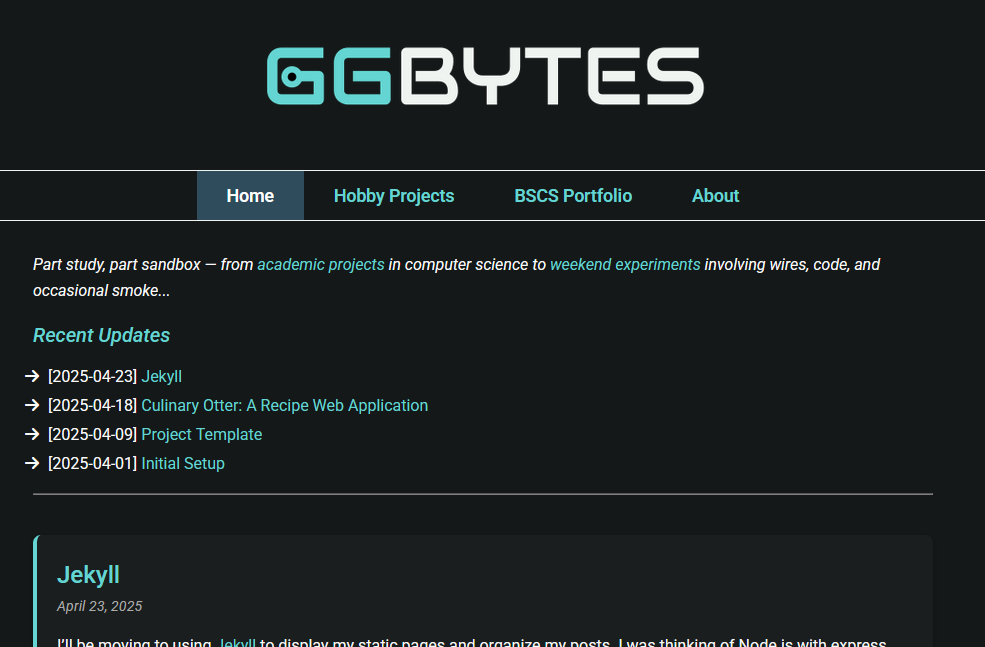
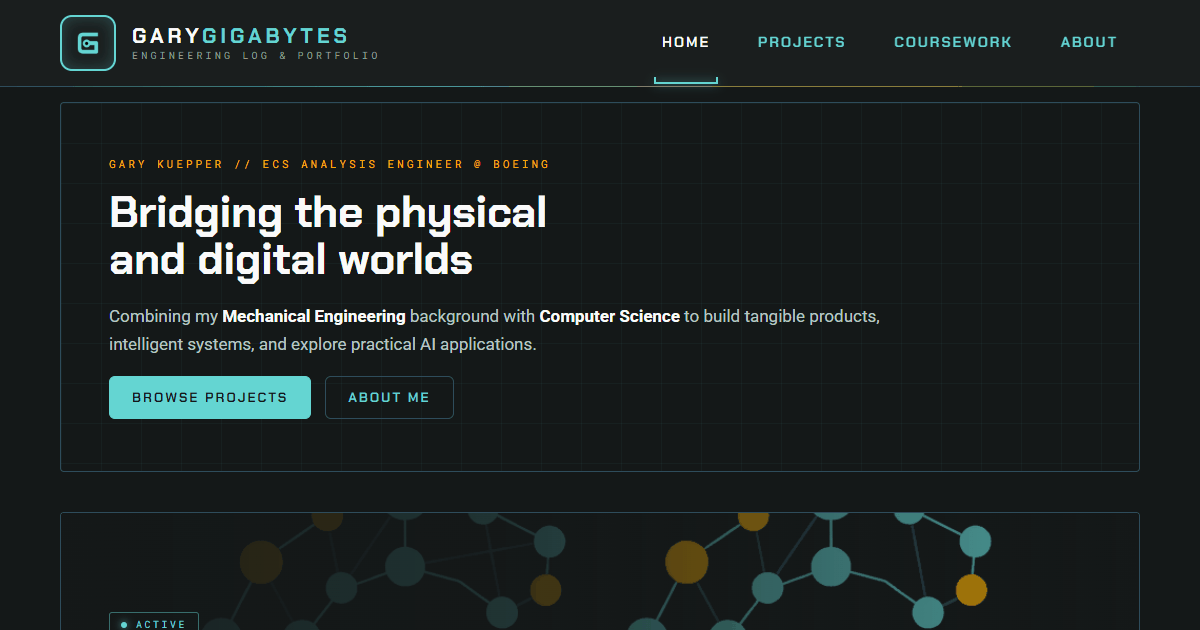
content: refresh site screenshots, keep the old ones as design history
The og:image and the project card both still showed the pre-redesign site. The
social preview was two generations stale - its nav read "Hobby Projects" and
"BSCS Portfolio", labels that have since been renamed twice - so sharing the
portfolio anywhere rendered a site that no longer exists.

Both are recaptured from production: a 1200x630 preview at the standard 1.91:1
social ratio, and a 1200x900 card matching .card-media's 4/3 aspect so it is
not letterboxed. Palette-quantised, 38KB and 77KB.

The old screenshots are kept rather than replaced. This project documents an
engineering journey and the site's own evolution is part of that, so both
earlier generations move into a Design History section on the project page.
Their order is inferred from the navigation labels renaming into each other,
not from a dated record, and the section says so rather than inventing dates.

Also brings two stale claims up to date: the styling bullet still described
"Custom CSS", and the timeline ended at maintenance with no entry for the
redesign. Maintenance moves to Phase 8 so finished work does not sit below the
open-ended item.

Verified: both images load and scale inside the column, no horizontal overflow
at 390px, 0 offending elements, 26 assertions, 0 dead selectors.

Claude-Session: https://claude.ai/code/session_01FPqrVEyTB6njC6LKjZofzH

diff --git a/_projects/ggbytes.md b/_projects/ggbytes.md
@@ -58,7 +58,12 @@ timeline:
     details: "Migrate from DigitalOcean droplet to Google Cloud Run with Global Load Balancer and CI/CD automation."
     completed: true
 
-  - date: "Phase 7: Maintenance"
+  - date: "Phase 7: Navbar Redesign & CSS Modularization"
+    phase: "Design Overhaul"
+    details: "Rebuilt the navbar, home and detail layouts, then split a 3,356-line stylesheet into documented Sass partials behind a closed colour palette and three breakpoints."
+    completed: true
+
+  - date: "Phase 8: Maintenance"
     phase: "Maintenance"
     details: "Maintain the portfolio."
     completed: false
@@ -75,8 +80,9 @@ and deployed on Google Cloud Run.
 
 - **Static Site Generator**: Jekyll with custom layouts
   for projects, posts, and course pages
-- **Styling**: Custom CSS with a "blueprint grid" aesthetic
-  and Engineering Amber accent palette
+- **Styling**: Jekyll's native Sass — a token file plus eight
+  documented partials, a closed sixteen-colour palette, and
+  three breakpoints reached only through a `respond-to()` mixin
 - **Deployment**: Dockerized Jekyll build, served via
   Google Cloud Run with a Global Load Balancer
 - **CI/CD**: GitHub Actions triggers Cloud Build on push
@@ -92,3 +98,26 @@ and deployed on Google Cloud Run.
   modular layout system
 - **Project Showcase System**: Custom collections for
   projects and courses with auto-linked post feeds
+
+## Design History
+
+Three visual generations so far. The old ones are kept on purpose: this project
+exists to document the journey, and that includes what the site used to look
+like. The order is inferred from the navigation labels — each generation's names
+were renamed into the next — rather than from a dated record.
+
+**First generation.** Centered wordmark over a horizontal nav reading
+*Hobby Projects* and *BSCS Portfolio*, with a "Recent Updates" arrow list and
+quote-styled post cards.
+
+![First-generation site: a centered GGBYTES wordmark above a horizontal navigation bar](/assets/imgs/ggbytes/ggbytes-gen1.png)
+
+**Second generation.** Same centered shape, tightened type and spacing; the nav
+became *Projects* and *CSUMB*.
+
+![Second-generation site: centered wordmark with a refined horizontal navigation bar](/assets/imgs/ggbytes/ggbytes-gen2.png)
+
+**Current.** A left-aligned lockup with the G mark and a persistent navbar, an
+introduction band carrying the role kicker and headline, and a featured project
+hero. *CSUMB* became *Coursework*; the centered wordmark, the arrow list and the
+quote cards are all gone.
